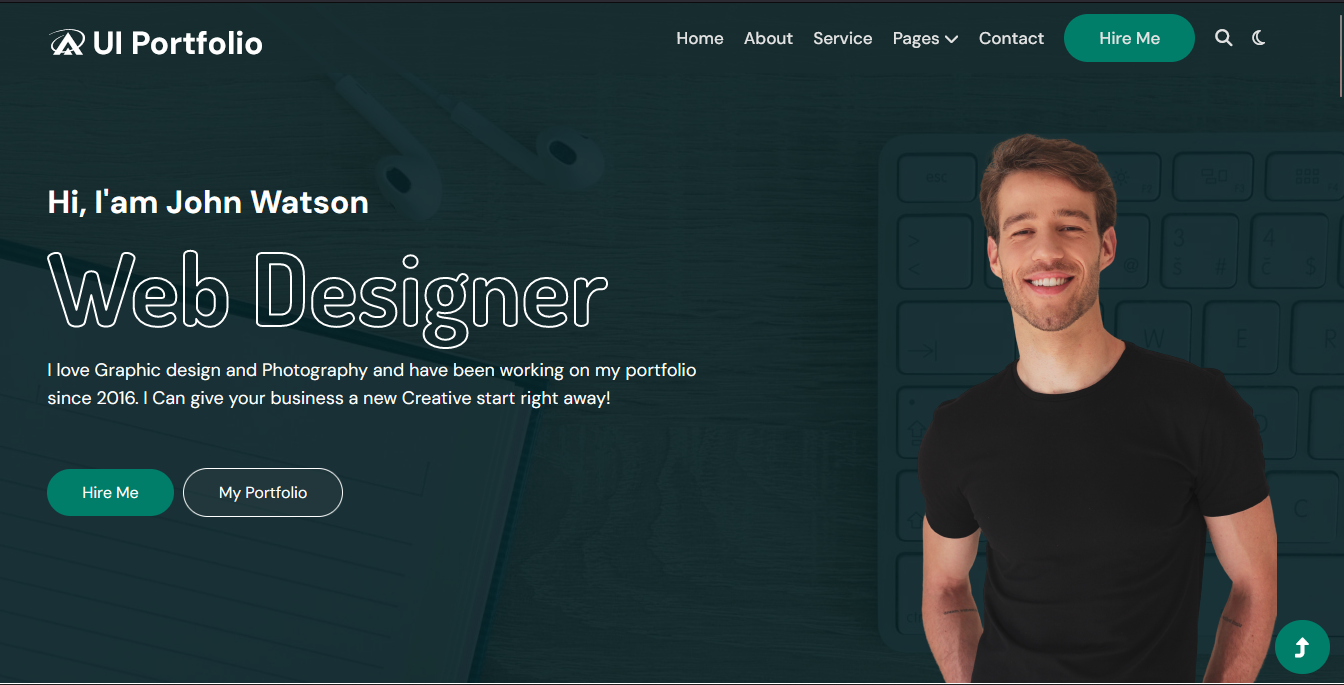
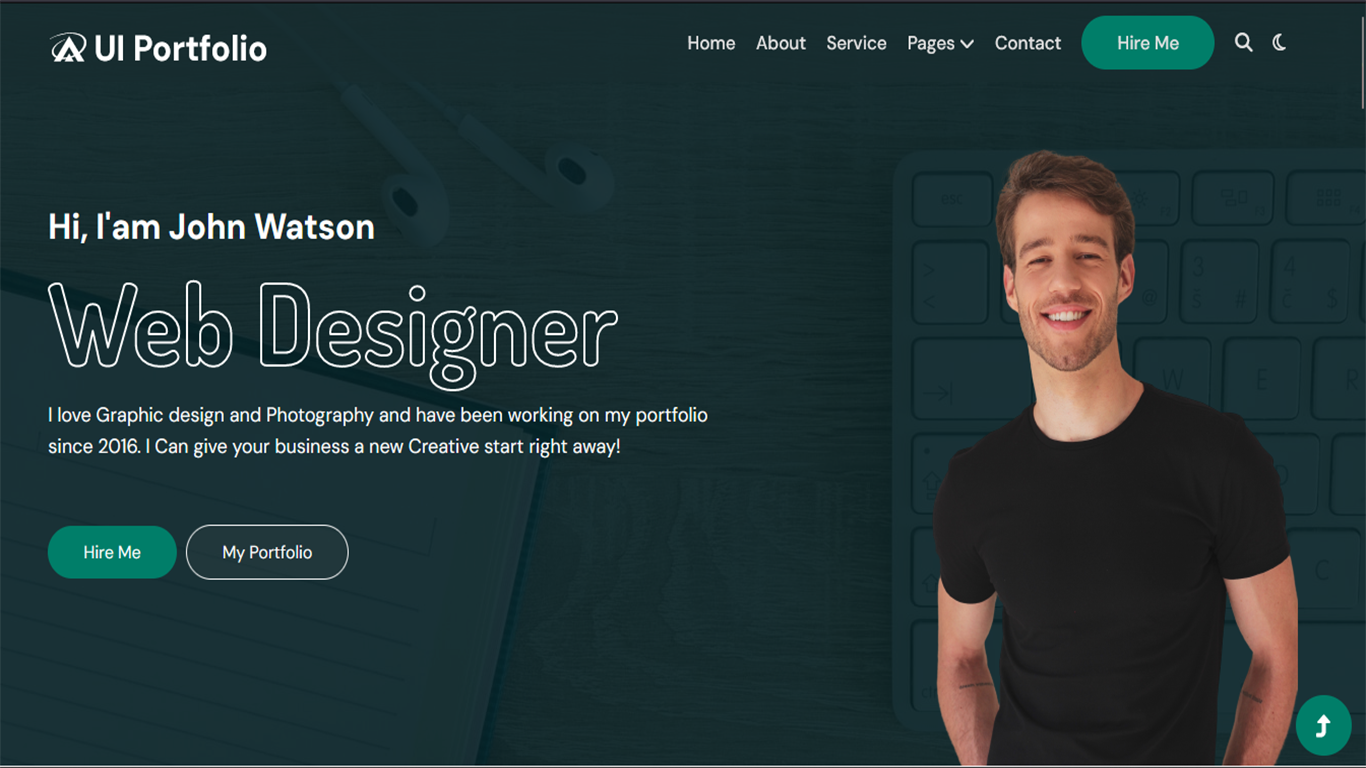
work  update

diff --git a/index.html b/index.html
@@ -151,48 +151,63 @@
   
 			<!-- ===== card ===== -->
 			<div class="col-12 col-lg-4 col-md-6">
-			  <div class="card rounded-0 rounded-3 border border-2 mb-2 mb-sm-4" style="width: 18rem;">
-				<img src="assets/images/pro1.png" class="img-fluid" alt="">
-				<a href="https://abdurrahman091496.github.io/2ndassesment-uiportfolio/" target=”_blank”> <p class="text-center view text-dark fw-bold pt-2">View Project</p></a>
+			  <div class="card rounded-0 rounded-3 border border-2 mb-2 mb-sm-4 shadow-lg" style="width: 18rem;">
+				<img src="assets/images/Responsive-Ecommerce-Website-Using-Bootstrap.jpg" class="img-fluid" alt="">
+				<p class="text-center fw-bold brand-clr pt-2 heading"> Responsive Bootstrap E-commerce <br>Landing Page</p>
+				<a href="https://abdurrahman091496.github.io/gadgetocean/" target=”_blank”> <p class="text-center view text-dark fw-bold pt-2">View Project</p></a>
+				<a href="https://github.com/abdurrahman091496/gadgetocean" target=”_blank”> <p class="text-center view text-dark fw-bold">View Code</p></a>
 			  </div>
 			</div>
   
 			<div class="col-12 col-lg-4 col-md-6">
 			  <div class="card card-2 rounded-0 rounded-3 border border-2 mb-2 ms-lg-2 mb-sm-4" style="width: 18rem;">
-				<img src="assets/images/pro2.png" class="img-fluid" alt="">
-				<a href="https://abdurrahman091496.github.io/dotclonehtmlcss/inner.html" target=”_blank”> <p class="text-center view text-dark fw-bold pt-2">View Project</p></a>
+				<img src="assets/images/subspop-tailwind-animated.jpg" class="img-fluid" alt="">
+				<p class="text-center fw-bold brand-clr pt-2 heading"> Animated Subs Popup Using <br>Tailwind CSS</p>
+				<a href="https://abdurrahman091496.github.io/subscribepopup/" target=”_blank”> <p class="text-center view text-dark fw-bold pt-2">View Project</p></a>
+				<a href="https://github.com/abdurrahman091496/subscribepopup" target=”_blank”> <p class="text-center view text-dark fw-bold">View Code</p></a>
 			  </div>
 			</div>
+
+			<div class="col-12 col-lg-4 col-md-6">
+				<div class="card rounded-0 rounded-3 border border-2 mb-2 mb-sm-4" style="width: 18rem;">
+				  <img src="assets/images/pro5.png" class="img-fluid" alt="">
+				  <p class="text-center fw-bold brand-clr pt-2 heading"> E-commerce Website Template Using <br>Only Table Layout HTML</p>
+				  <a href="https://abdurrahman091496.github.io/ecommercehtml/" target=”_blank”> <p class="text-center view text-dark fw-bold pt-2">View Project</p></a>
+				  <a href="https://github.com/abdurrahman091496/ecommercehtml" target=”_blank”> <p class="text-center view text-dark fw-bold">View Code</p></a>
+				  
+				</div>
+			  </div>
   
 			<div class="col-12 col-lg-4 col-md-6">
 			  <div class="card rounded-0 rounded-3 border border-2 mb-2 mb-sm-4" style="width: 18rem;">
 				<img src="assets/images/pro3.png" class="img-fluid" alt="">
+				<p class="text-center fw-bold brand-clr pt-2 heading"> Mobile App Landing Page Only <br>HTML & CSS</p>
 				<a href="https://abdurrahman091496.github.io/appcodemo/" target=”_blank”> <p class="text-center view text-dark fw-bold pt-2">View Project</p></a>
+				<a href="https://github.com/abdurrahman091496/appcodemo" target=”_blank”> <p class="text-center view text-dark fw-bold">View Code</p></a>
 			  </div>
 			</div>
 
 			<div class="col-12 col-lg-4 col-md-6">
-				<div class="card rounded-0 rounded-3 border border-2 mb-2 mb-sm-4" style="width: 18rem;">
-				  <img src="assets/images/pro4.png" class="img-fluid" alt="">
-				  <a href="https://abdurrahman091496.github.io/2ndassesment-adrian/" target=”_blank”> <p class="text-center view text-dark fw-bold pt-2">View Project</p></a>
-				</div>
-			  </div>
-	
-			  <div class="col-12 col-lg-4 col-md-6">
 				<div class="card rounded-0 rounded-3 border border-2 ms-lg-2 mb-2 mb-sm-4" style="width: 18rem;">
-				  <img src="assets/images/pro5.png" class="img-fluid" alt="">
-				  <a href="https://abdurrahman091496.github.io/ecommercehtml/" target=”_blank”> <p class="text-center view text-dark fw-bold pt-2">View Project</p></a>
+					<!-- <p class="text-center fw-bold brand-clr py-1 heading"> Basic Animation Landing Page <br> Only HTML & CSS</p> -->
+				  <img src="assets/images/basic-animation-landing-page.jpg" class="img-fluid" alt="">
+				  <p class="text-center fw-bold brand-clr pt-2 heading"> Basic Animation Landing Page Only <br>HTML & CSS</p>
+				  <a href="https://abdurrahman091496.github.io/seogramlandingpage/" target=”_blank”> <p class="text-center view text-dark fw-bold pt-2">View Project</p></a>
+				  <a href="https://github.com/abdurrahman091496/seogramlandingpage" target=”_blank”> <p class="text-center view text-dark fw-bold">View Code</p></a>
 				</div>
 			  </div>
 	
 			  <div class="col-12 col-lg-4 col-md-6">
-				<div class="card rounded-0 rounded-3 border border-2 mb-2 mb-sm-4" style="width: 18rem;">
-				  <img src="assets/images/pro6.png" class="img-fluid" alt="">
-				  <a href="https://abdurrahman091496.github.io/fashion-demo/" target=”_blank”> <p class="text-center view text-dark fw-bold pt-2">View Project</p></a>
+				<div class="card rounded-0 rounded-3 border border-2 ms-lg-1 mb-2 mb-sm-4" style="width: 18rem;">
+				  <img src="assets/images/pro1.png" class="img-fluid" alt="">
+				  <p class="text-center fw-bold brand-clr pt-2 heading"> Web Design Personal Portfolio <br>Landing Page</p>
+				  <a href="https://abdurrahman091496.github.io/2ndassesment-uiportfolio/" target=”_blank”> <p class="text-center view text-dark fw-bold pt-3">View Project</p></a>
+				  <a href="https://github.com/abdurrahman091496/2ndassesment-uiportfolio" target=”_blank”> <p class="text-center view text-dark fw-bold">View Code</p></a>
 				</div>
 			  </div>
+	
 
-			  <a href="https://github.com/abdurrahman091496" target="_blank" class=" py-2 text-center fw-bold rounded-3 explore"> Explore More <i class="fa-brands fa-wpexplorer fa-flip-horizontal"></i></a>
+			  <a href="https://github.com/abdurrahman091496?tab=repositories" target="_blank" class=" py-2 text-center fw-bold rounded-3 explore"> Explore More <i class="fa-brands fa-wpexplorer fa-flip-horizontal"></i></a>
   
 		  </div>
   
@@ -222,11 +237,11 @@
 			  <div class="about-info py-5"  data-aos="fade-right">
 				<h4 class="fw-semibold fs-3 lh-base py-3 fw-bold brand-clr">Expertise</h4>
 				<ul class="text-light fs-4 list-unstyled d-lg-flex flex-sm-column text-start">
-					<li> <i class="fa-brands fa-html5 text-light"></i> HTML</li>
-					<li> <i class="fa-brands fa-css3-alt text-light"></i> CSS</li>
-					<li> <i class="fa-brands fa-node-js text-light"></i> JS (Basic)</li>
-					<li> <i class="fa-brands fa-bootstrap text-light"></i> Bootstrap</li>
-					<li> <i class="fa-brands fa-wordpress text-light"></i> WP Customization</li>
+					<li> <i class="fa-brands fa-html5 text-light"></i> HTML ✅</li>
+					<li> <i class="fa-brands fa-css3-alt text-light"></i> CSS ✅</li>
+					<li> <i class="fa-brands fa-node-js text-light"></i> JS (Basic) ✅</li>
+					<li> <i class="fa-brands fa-bootstrap text-light"></i> Bootstrap ✅</li>
+					<li> <i class="fa-brands fa-wordpress text-light"></i> WP Customization ✅</li>
 				</ul>
 				<a href="#contact" class="px-5 py-2 text-center brand-clr fw-bold rounded-3"> Hire Me <i class="fa-solid fa-check"></i></a>
 			  </div>
@@ -236,10 +251,10 @@
 				<div class="about-info py-5"  data-aos="fade-right">
 				  <h4 class="fw-semibold fs-3 lh-base py-3 fw-bold brand-clr text-start">Certification</h4>
 				  <ul class="text-light fs-5 list-unstyled text-start">
-					  <li> Web Design from BASIS, SEIP Project BITM ,Dhaka</li>
-					  <li> Communication Skills from BASIS, SEIP Project WSDA</li>
-					  <li> Seo & Digital Marketing from Passive Journal</li>
-					  <li> Graphic Design from LEDP</li>
+					  <li> 🥇 Web Design from BASIS, SEIP Project BITM ,Dhaka</li>
+					  <li> 🥇 Communication Skills from BASIS, SEIP Project WSDA</li>
+					  <li> 🥇 Seo & Digital Marketing from Passive Journal</li>
+					  <li> 🥇 Graphic Design from LEDP</li>
 				  </ul>
 				  <a href="https://drive.google.com/file/d/1Kp6qKZDKE5Wxga7G5r7AxfM7oW80fxre/view?usp=sharing" target="_blank" class="px-5 py-2 text-center brand-clr fw-bold rounded-3"> Download CV <i class="fa-solid fa-down-long"></i></a>
 				</div>

diff --git a/assets/css/style.css b/assets/css/style.css
@@ -226,6 +226,9 @@ body{
     width: 100%;
     height: 100%;
 }
+.heading{
+    font-size: .8rem;
+}
 
 .work-divider{
     width: 15%;
@@ -309,10 +312,10 @@ body{
     font-size: 1.5rem;
     background: var(--brand-clr);
     padding: 14px 17px;
-    border-radius: 50px;
+    border-radius: 10px;
     position: fixed;
-    bottom: 50px;
-    right: 20px;
+    bottom: 250px;
+    right: -10px;
     transition: .5s linear;
 }
 
